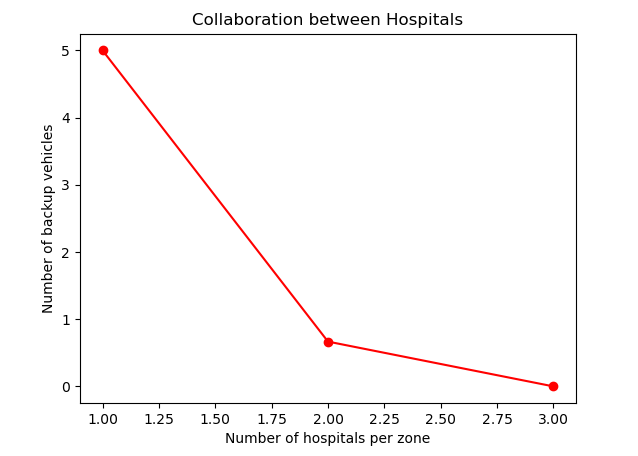
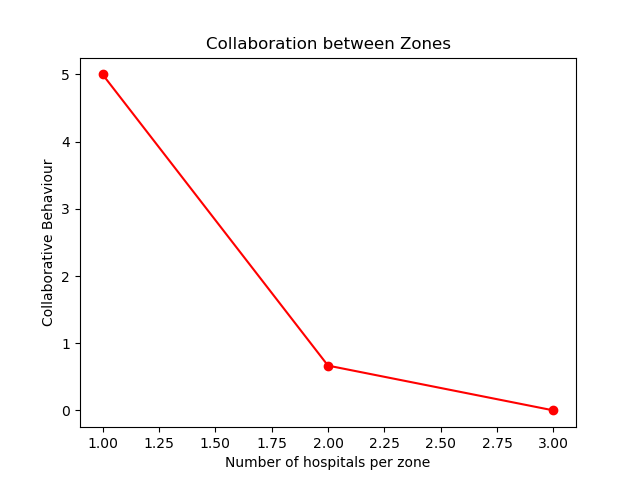
frequency collab

Changed region(s): [[0.0596, 0.0921, 0.9232, 0.9825], [0.2978, 0.0307, 0.7445, 0.1228]]

diff --git a/plots/hospitals/hospitals-collab.py b/plots/hospitals/hospitals-collab.py
@@ -36,8 +36,8 @@ for i in range(len(y_list)):
 plt.plot(x_list, y_average, "ro-",)
 
 plt.xlabel('Number of hospitals per zone')
-plt.ylabel('Number of backup vehicles')
-plt.title('Collaboration between Hospitals')
+plt.ylabel('Collaborative Behaviour')
+plt.title('Collaboration between Zones')
 plt.grid(False)
 plt.savefig("hospitals-collab.png")
 plt.show()
